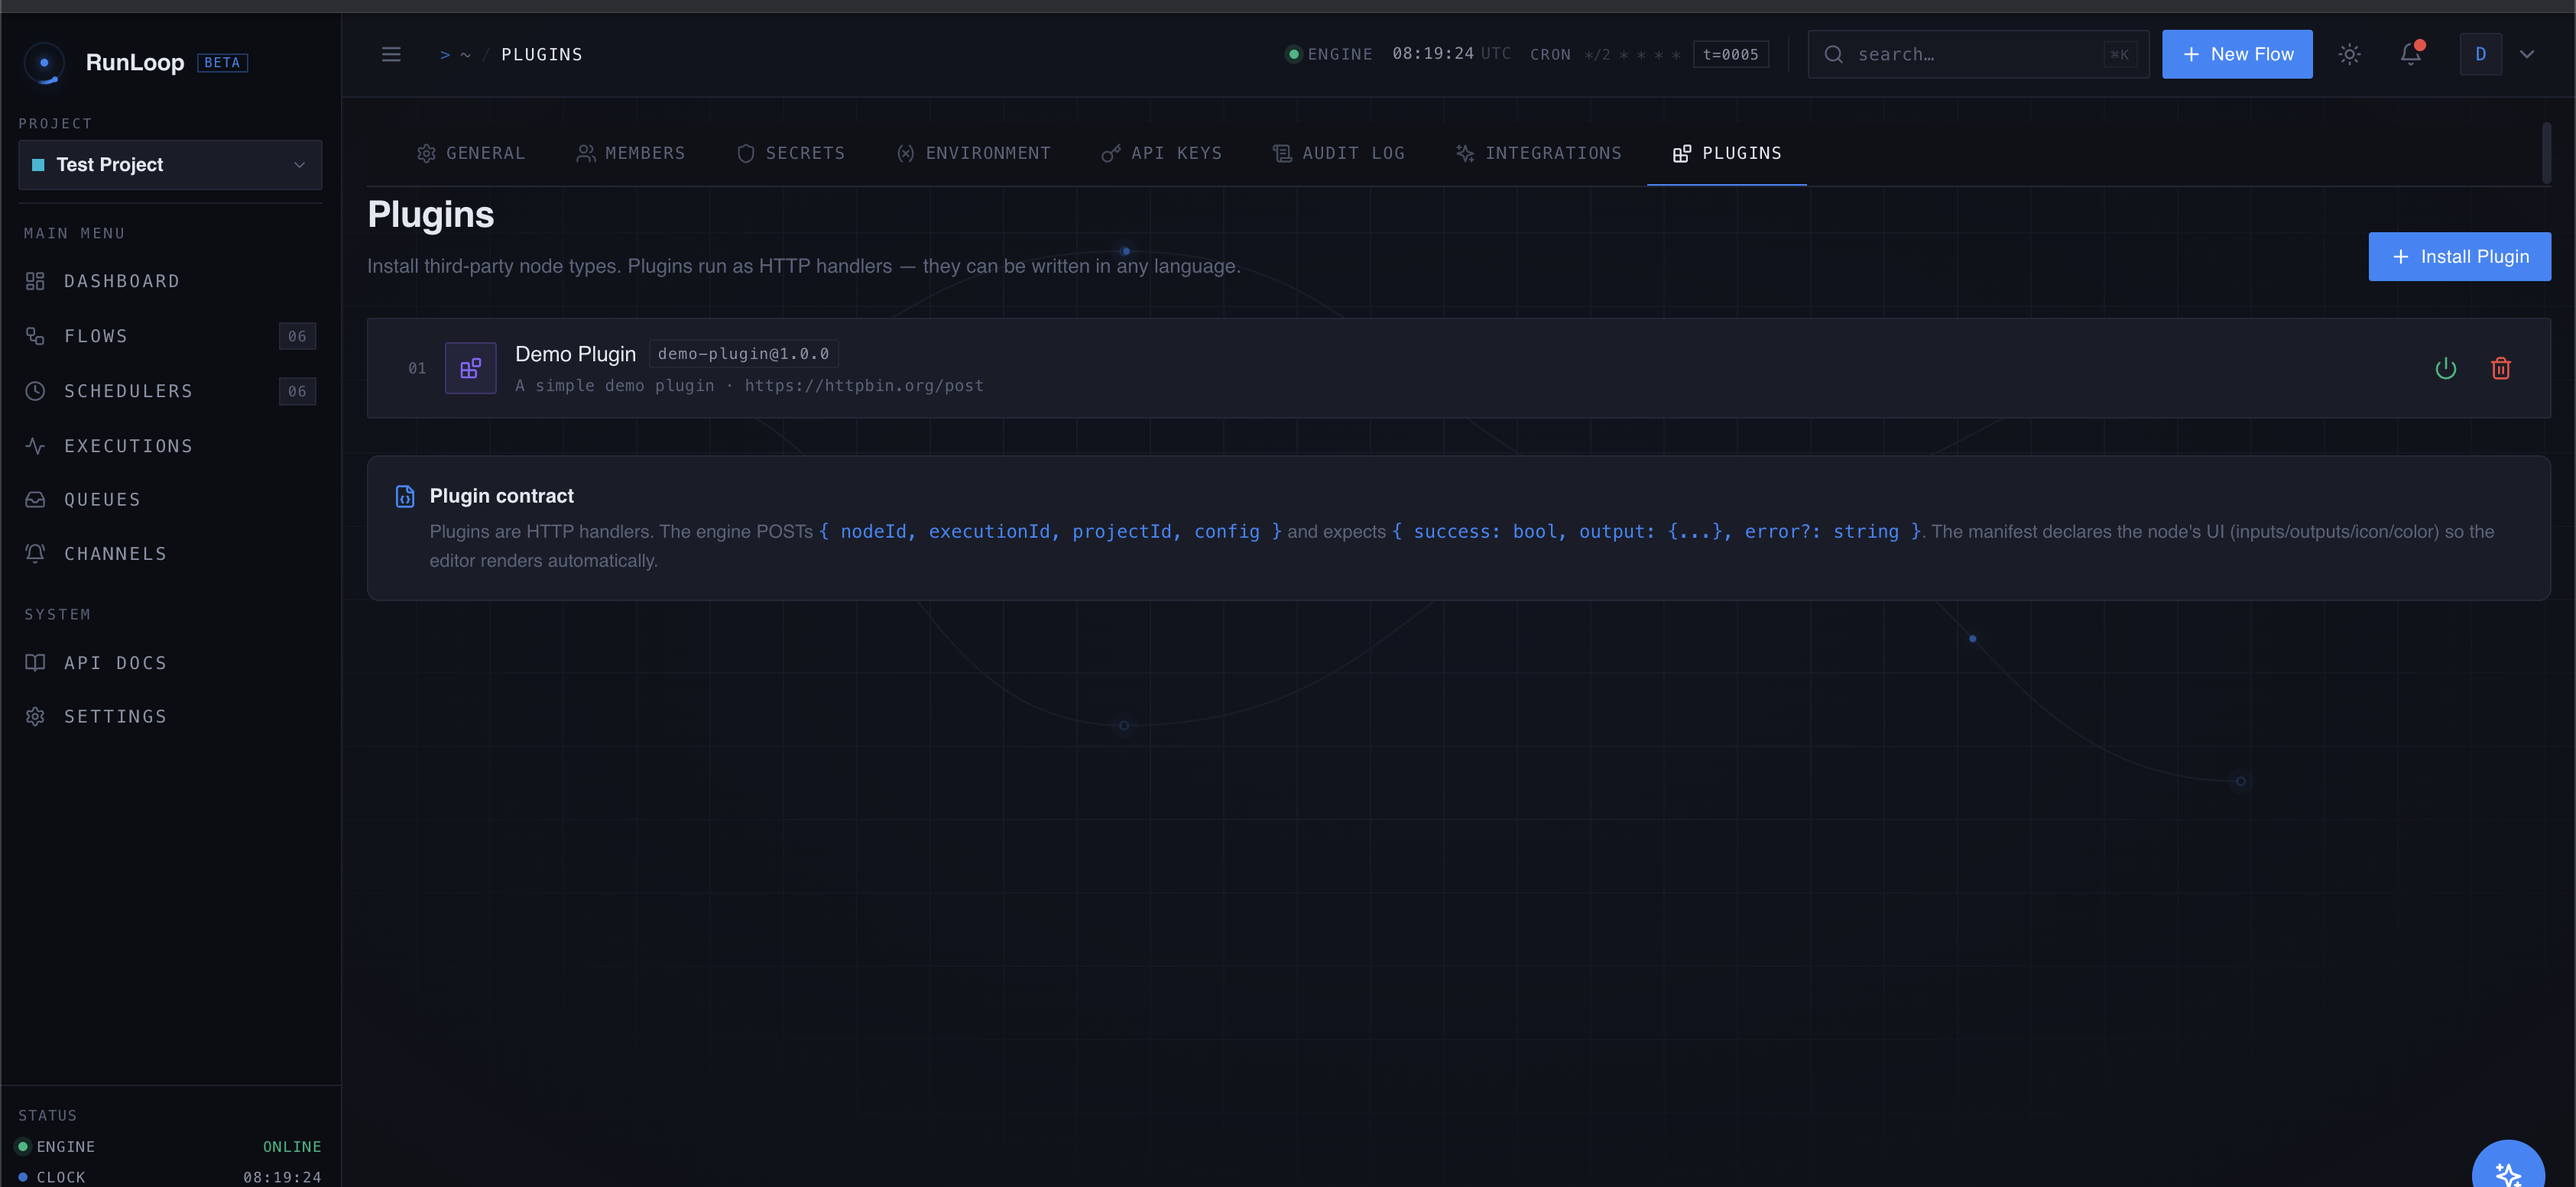
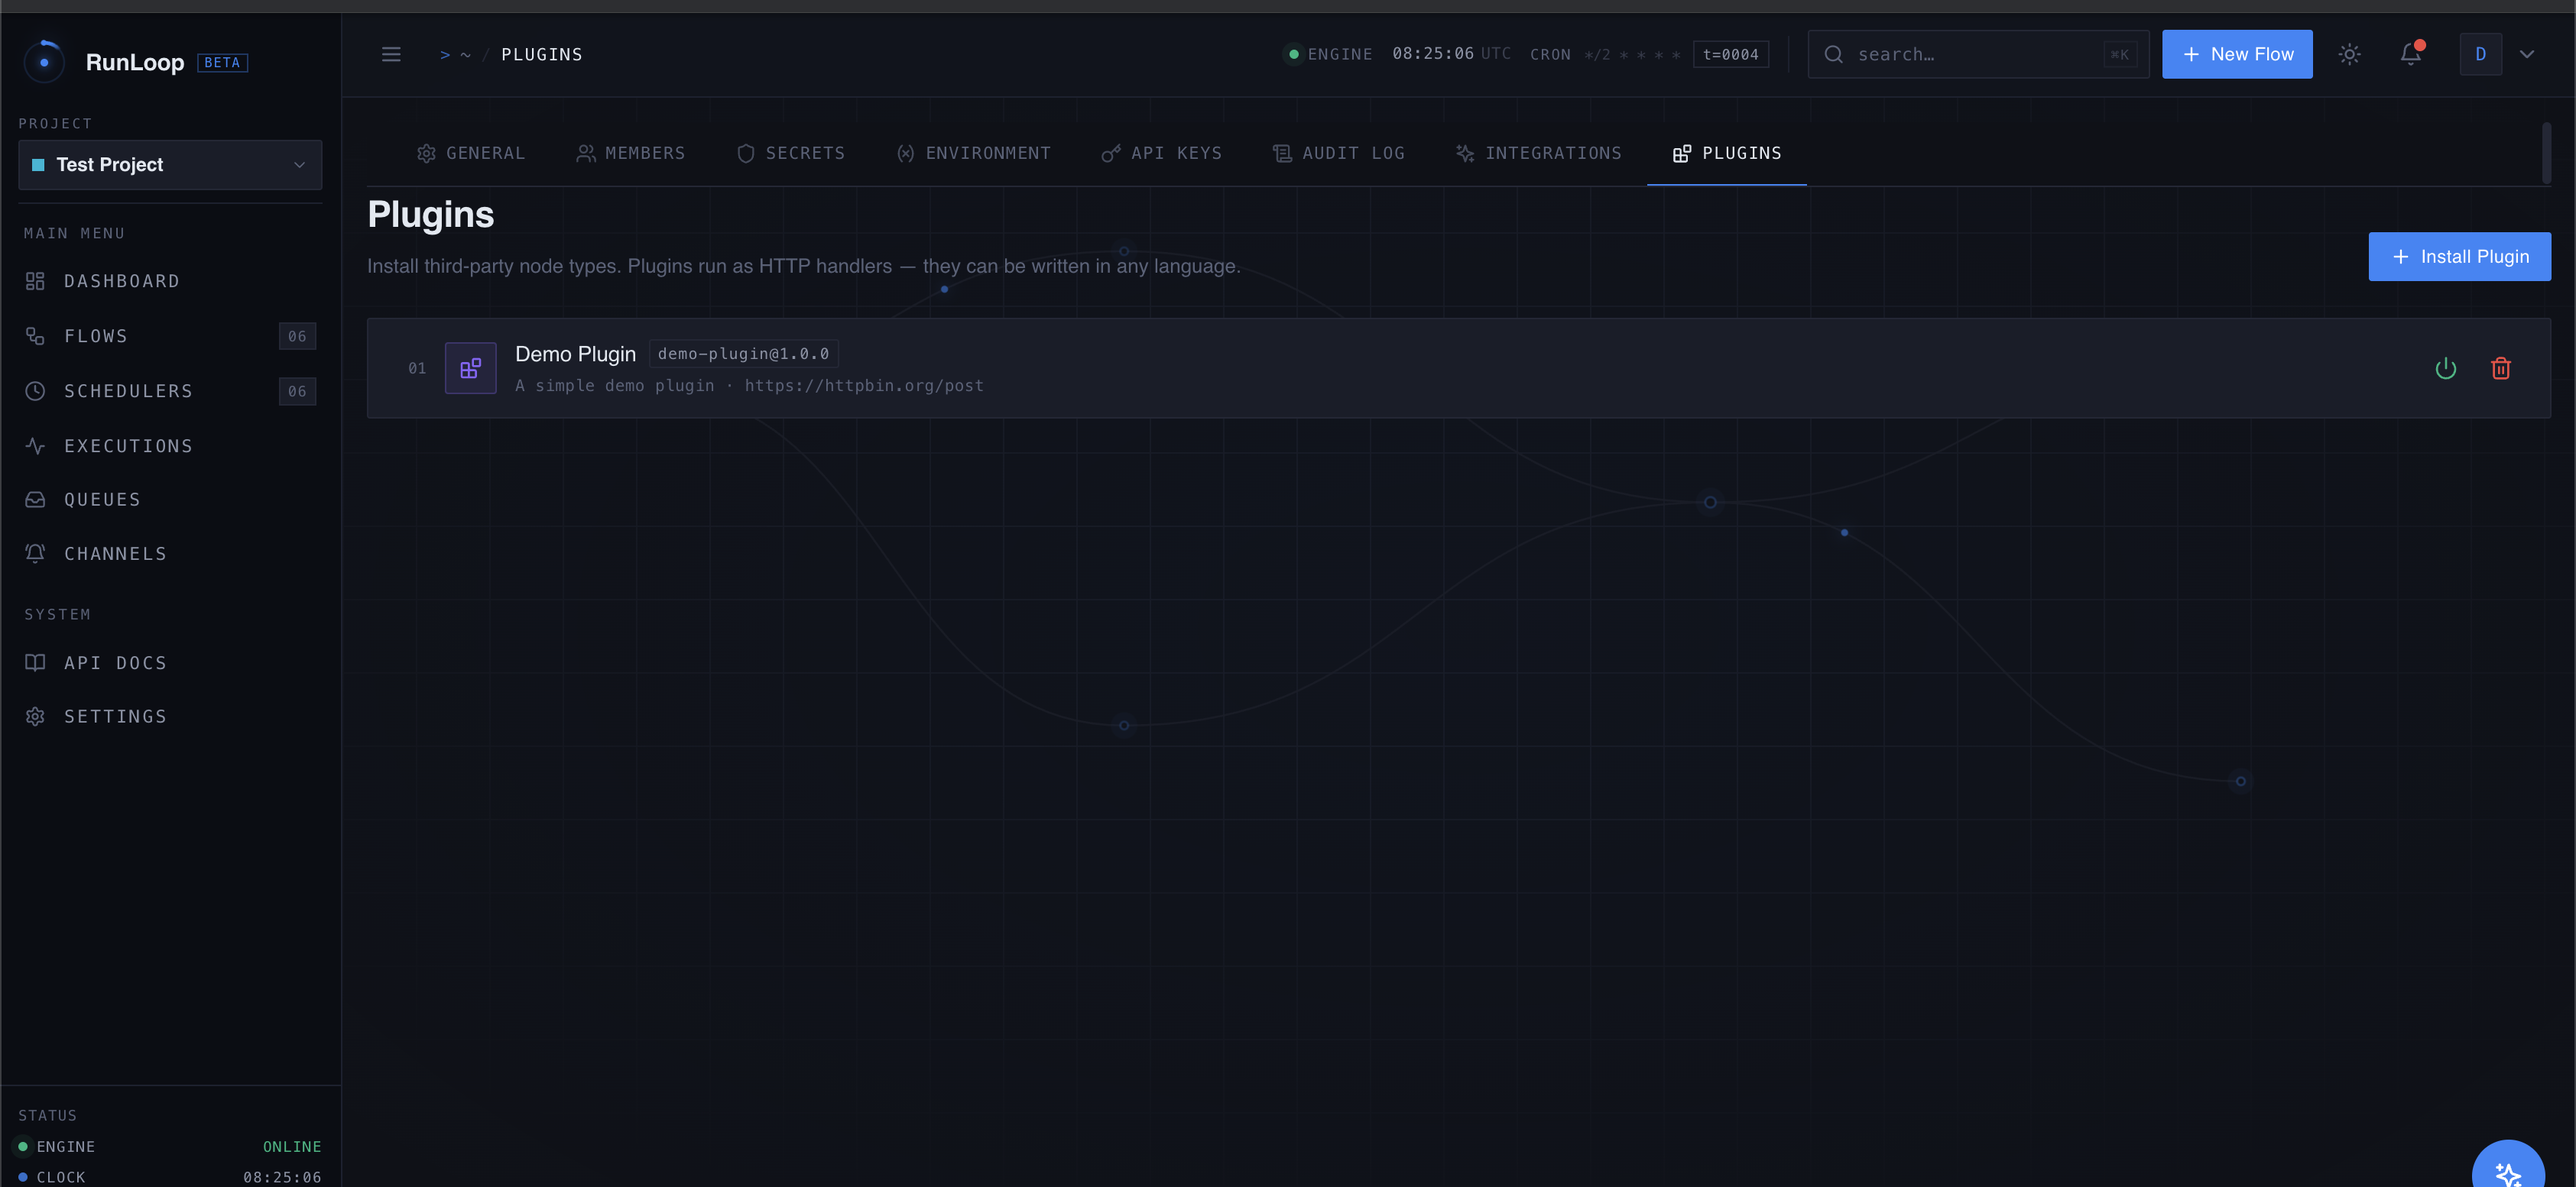
ui(plugins): remove Plugin contract footer card
The card duplicated info that's already in docs/ + the README. Was
adding visual clutter at the bottom of the plugins page without
anything actionable. Drop the FileJson icon import that became unused.

Plugins page screenshot re-captured to match.

Changed region(s): [[0.1558, 0.4015, 0.6543, 0.4942], [0.7166, 0.4324, 0.9659, 0.4633], [0.0935, 0.9884, 0.1246, 1.0]]

diff --git a/apps/runloop/src/app/(protected)/p/[projectId]/plugins/page.tsx b/apps/runloop/src/app/(protected)/p/[projectId]/plugins/page.tsx
@@ -2,7 +2,7 @@
 
 import { useState, useEffect, useCallback } from 'react';
 import {
-  Blocks, Plus, Trash2, Power, AlertCircle, Loader2, CheckCircle2, Link as LinkIcon, Code2, FileJson,
+  Blocks, Plus, Trash2, Power, AlertCircle, Loader2, CheckCircle2, Link as LinkIcon, Code2,
 } from 'lucide-react';
 
 const FONT = "'IBM Plex Sans Thai', 'IBM Plex Sans', sans-serif";
@@ -318,22 +318,6 @@ export default function PluginsPage() {
         </div>
       )}
 
-      {/* Footer: spec hint */}
-      <div className="mt-6 p-4 rounded-lg" style={{ background: T.panel, border: `1px solid ${T.border}` }}>
-        <div className="flex items-start gap-2">
-          <FileJson className="w-4 h-4 mt-0.5 flex-shrink-0" style={{ color: T.accent }} />
-          <div>
-            <h4 style={{ fontSize: 13, fontWeight: 600, color: T.text, marginBottom: 4 }}>Plugin contract</h4>
-            <p style={{ fontSize: 12, color: T.textMuted, lineHeight: 1.6 }}>
-              Plugins are HTTP handlers. The engine POSTs{' '}
-              <code style={{ color: T.accent }}>{`{ nodeId, executionId, projectId, config }`}</code>
-              {' '}and expects{' '}
-              <code style={{ color: T.accent }}>{`{ success: bool, output: {...}, error?: string }`}</code>.
-              The manifest declares the node's UI (inputs/outputs/icon/color) so the editor renders automatically.
-            </p>
-          </div>
-        </div>
-      </div>
     </div>
   );
 }
